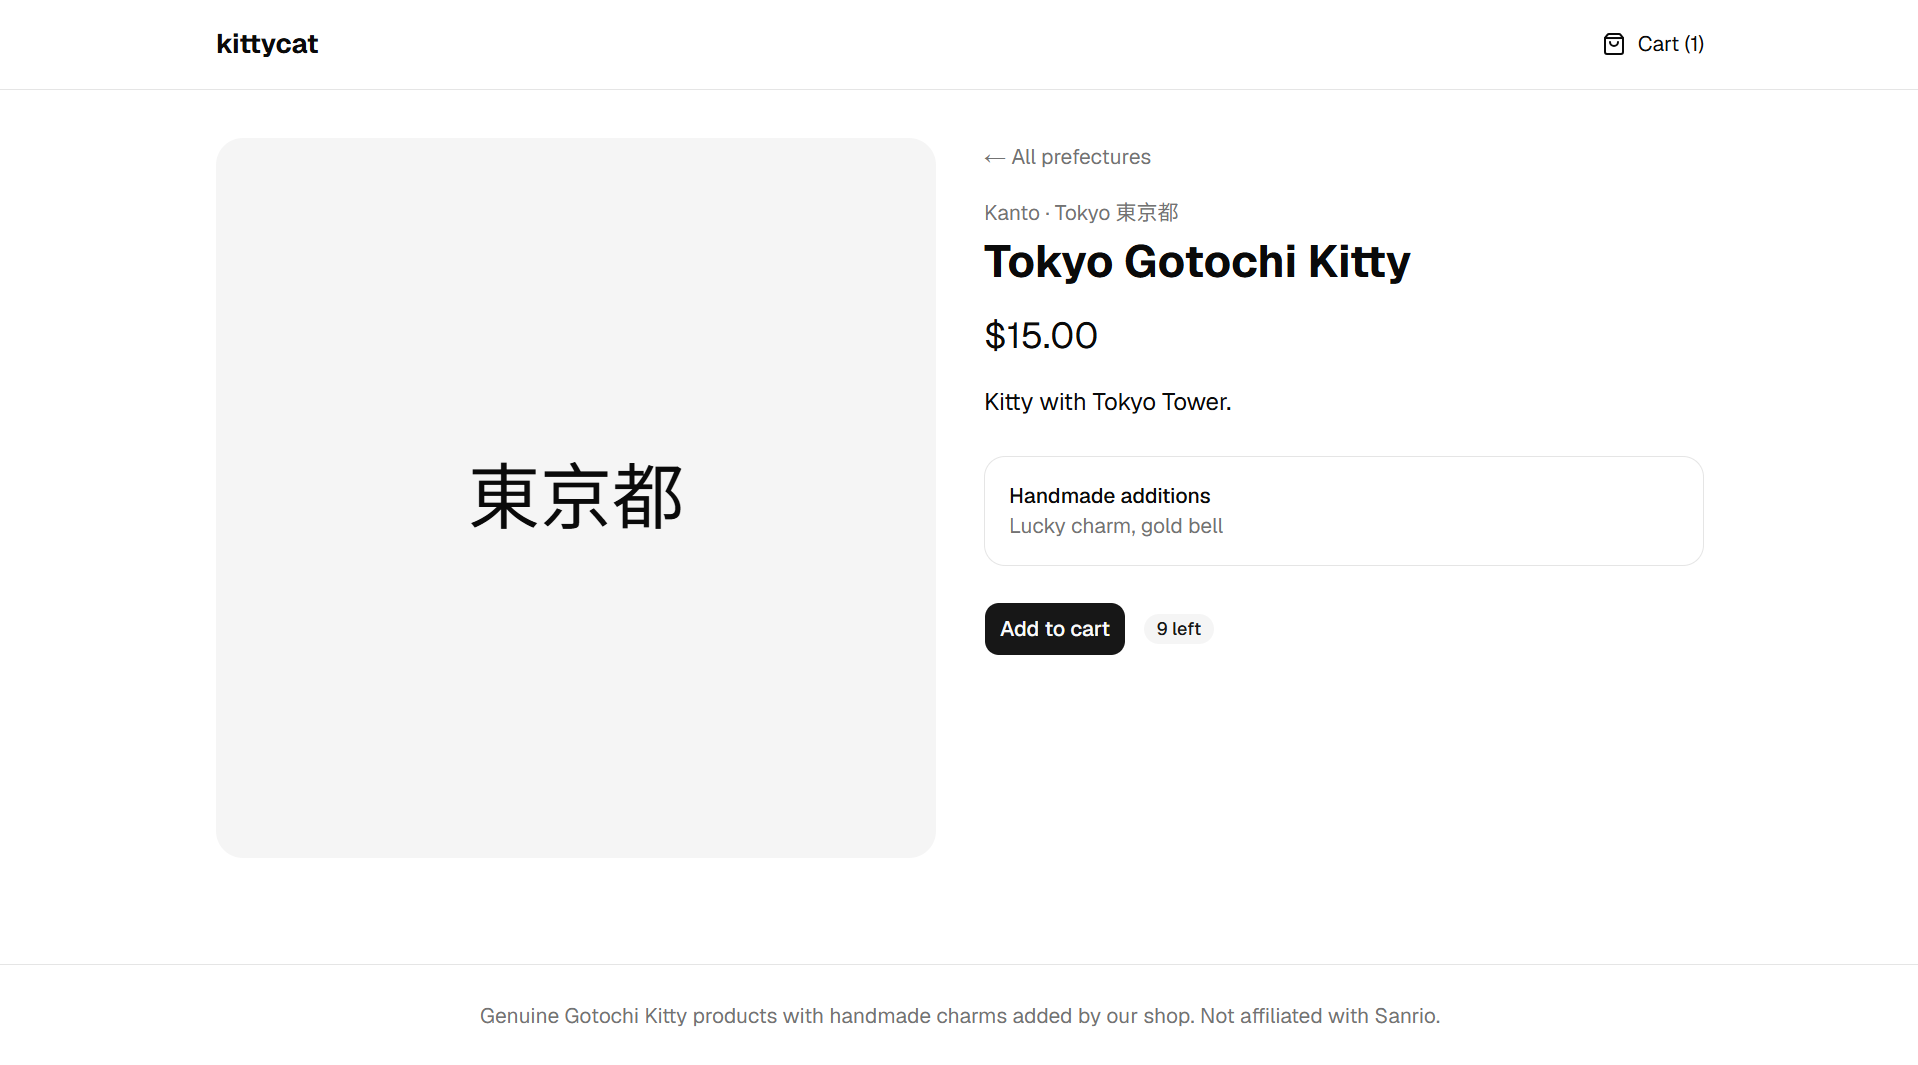
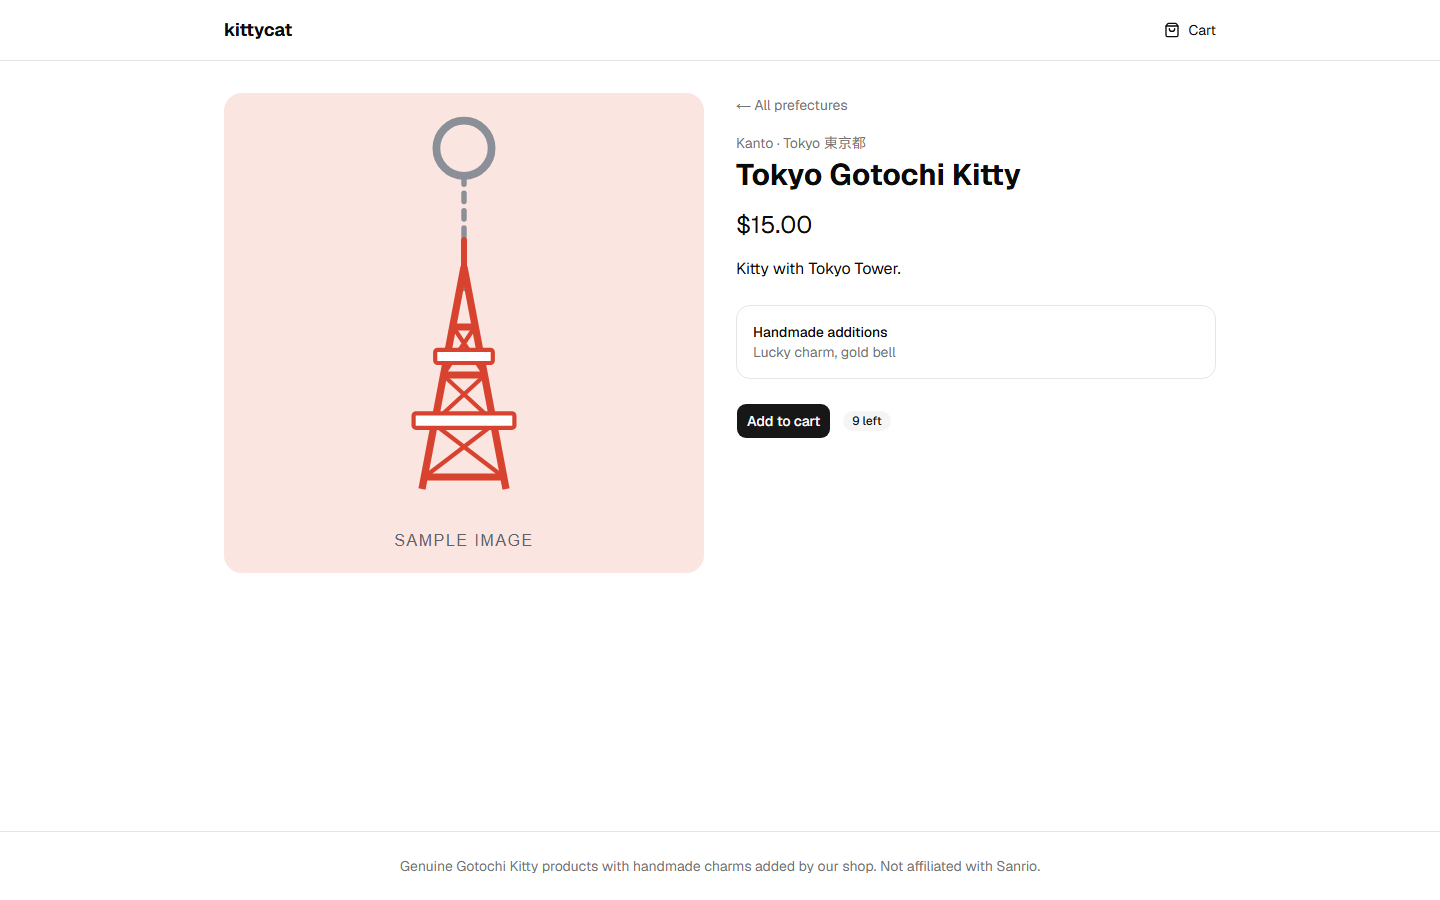
docs: add payment screenshot and refresh product images

diff --git a/README.md b/README.md
@@ -8,17 +8,19 @@ Kittycat is an online shop for regional Japanese keychains, built for customers 
 
 I built it to solve the problems that make real commerce hard: two people buying the last item at the same moment, prices that can't be tampered with, and order records that stay accurate over time.
 
-**Status:** deployed and in active development, ahead of opening to customers.
+**Status:** deployed and in active development, ahead of opening to customers. Product images are sample illustrations for now.
 
-![Storefront showing keychains grouped by region of Japan](docs/screenshots/home.png)
+![Storefront section showing keychains for the Kansai region of Japan](docs/screenshots/home.png)
 
 | Product page | Checkout |
 | :---: | :---: |
 | ![Product page with price, stock and add to cart button](docs/screenshots/product.png) | ![Checkout form with inline validation messages](docs/screenshots/checkout.png) |
 
-| Cart | Order dashboard |
+| PayNow payment | Order dashboard |
 | :---: | :---: |
-| ![Cart with quantity controls and total](docs/screenshots/cart.png) | ![Admin dashboard listing orders by status](docs/screenshots/admin.png) |
+| ![Order page with a PayNow QR code](docs/screenshots/payment.png) | ![Admin dashboard listing orders by status](docs/screenshots/admin.png) |
+
+<sub>Screenshots use sample customer details and a non-working QR code.</sub>
 
 ## Features
 
